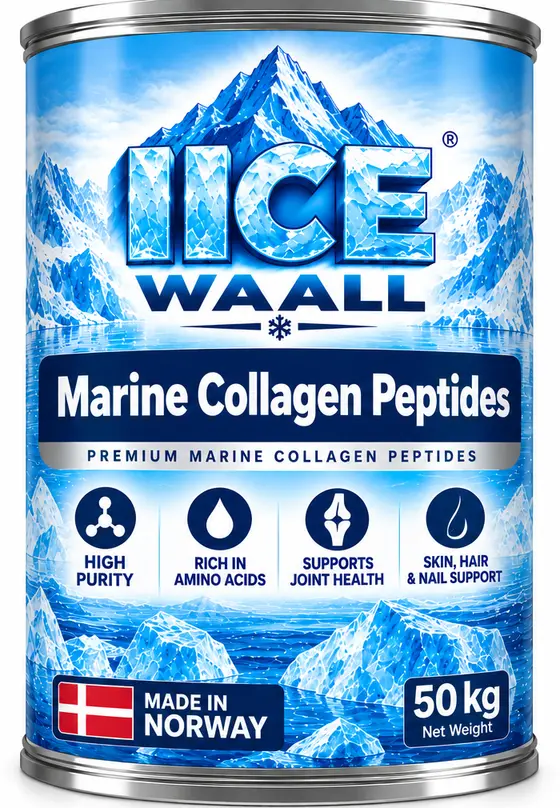
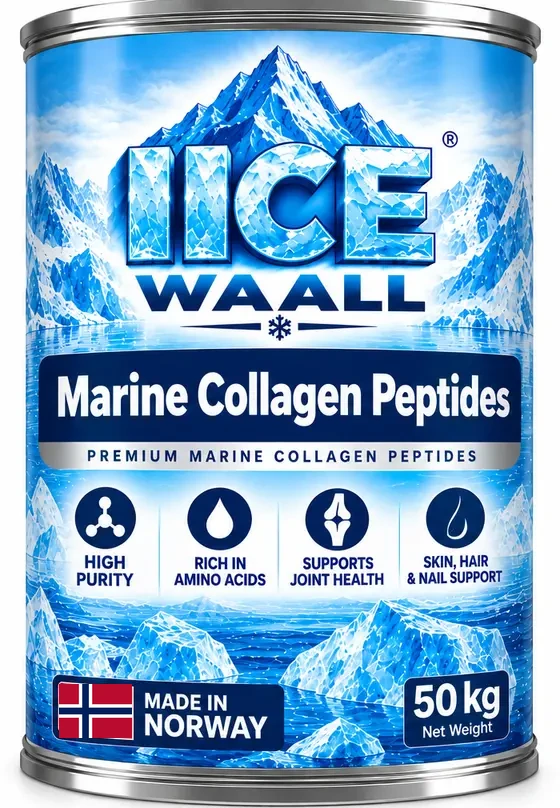
Collagen drum: Norway flag to match Made in Norway (#43)
Claude-Session: https://claude.ai/code/session_01H6KVvrWwGPStCyBdFgkUuR

Changed region(s): [[0.0911, 0.8354, 0.2429, 0.9282]]

diff --git a/angular/src/app/app.html b/angular/src/app/app.html
@@ -45,7 +45,7 @@
       <div class="grid products">
         @for (p of products; track p.slug) {
           <article class="card product">
-            <a [href]="'product/' + p.slug + '/'" class="card-img"><img [src]="'assets/front-' + p.slug + '.webp'" [alt]="'IICE WAALL ' + t(p.name) + ', ' + t('50 kg drum') + ', ' + t('Made in') + ' ' + t(p.country)" loading="lazy" width="560" height="808" /></a>
+            <a [href]="'product/' + p.slug + '/'" class="card-img"><img [src]="'assets/front-' + p.slug + '.webp?v=2'" [alt]="'IICE WAALL ' + t(p.name) + ', ' + t('50 kg drum') + ', ' + t('Made in') + ' ' + t(p.country)" loading="lazy" width="560" height="808" /></a>
             <div>
               <h3><a [href]="'product/' + p.slug + '/'">{{ t(p.name) }}</a></h3>
               <p class="origin">{{ p.flag }} {{ t('Made in') }} {{ t(p.country) }} · 50 kg</p>
